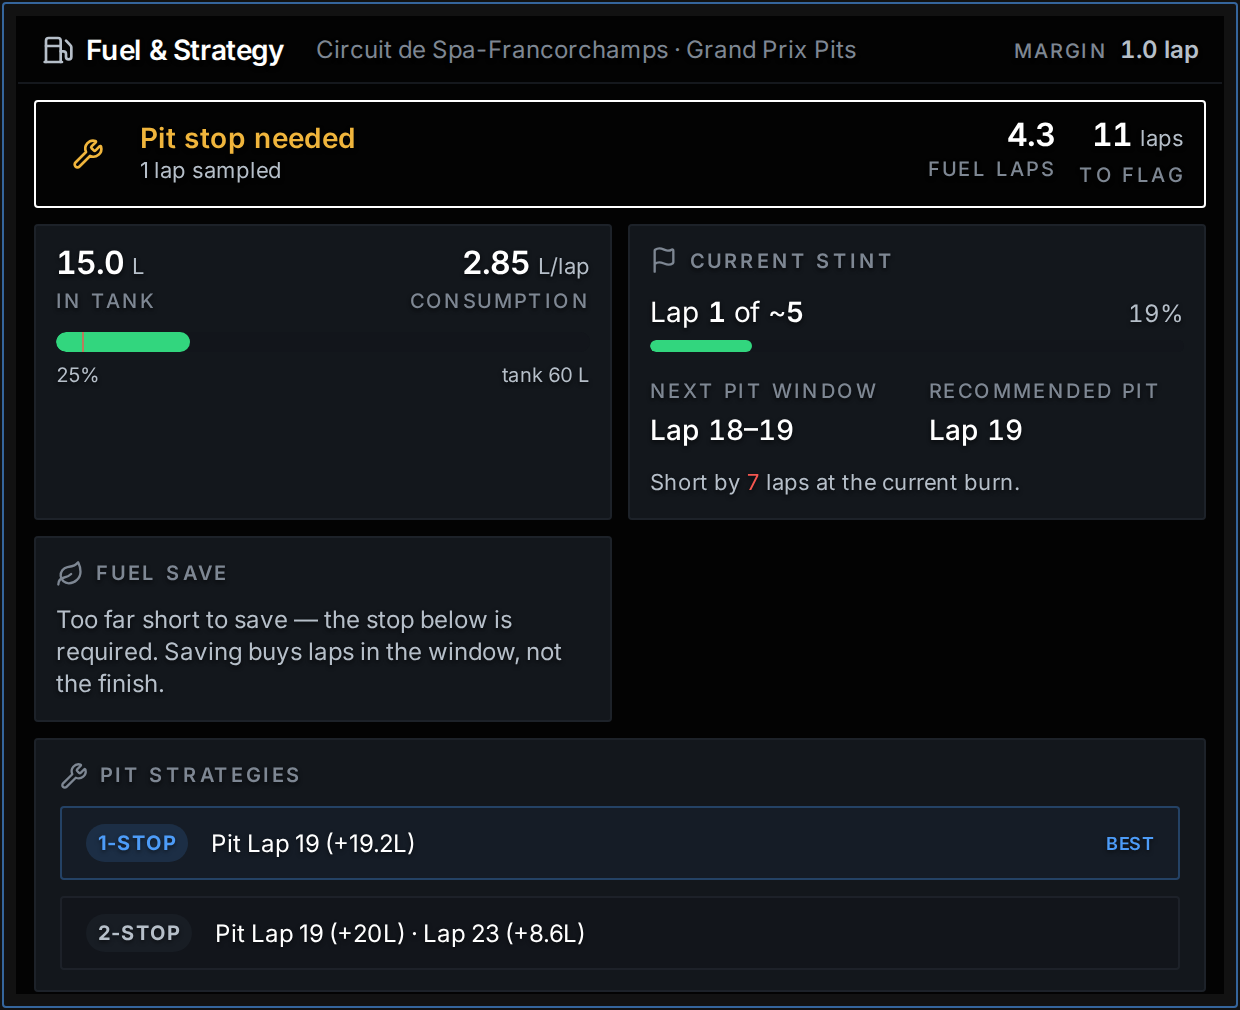
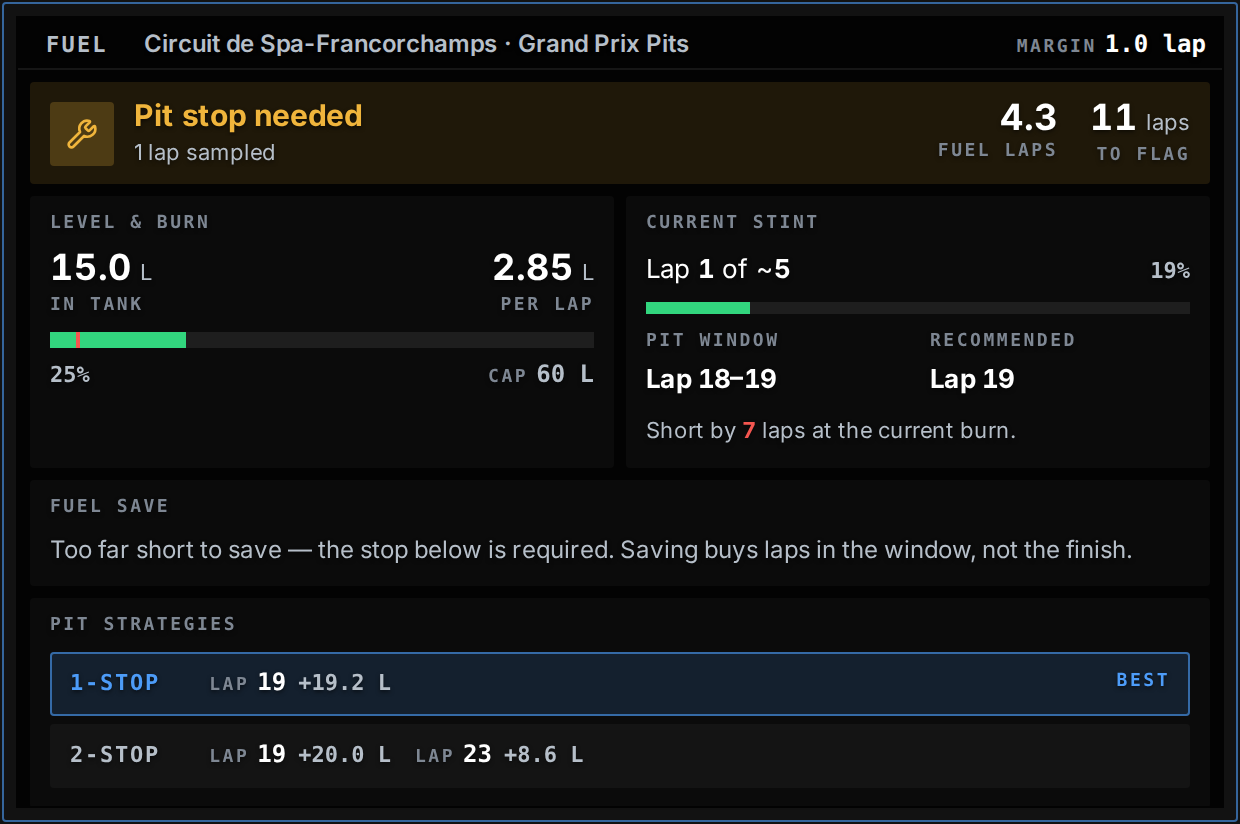
docs(site): re-shoot the product captures for the timing-surface pass
Every capture is re-shot from the live app on the mock feed. Relative and
Fuel frames are re-measured (416 and 412 px) now that their content is
shorter, and the img dimensions and alt text follow.

diff --git a/site/index.html b/site/index.html
@@ -332,9 +332,9 @@
                    incidents, track and air temperature, strength of field and the
                    clock, then a GT3 class band with car count, SoF and fastest lap
                    over six driver rows, and the full GT4 group below it — each row
-                   carrying position change, position, car number, driver, car brand,
-                   licence, iRating, gap, interval, last lap, best lap, tyre and three
-                   sector columns."
+                   carrying position, position change, car number, car brand, flag,
+                   driver, licence, iRating, gap, interval, last lap, best lap, tyre
+                   and three sector columns."
             />
           </figure>
         </section>
@@ -371,9 +371,9 @@
               loading="lazy"
               alt="The standings overlay showing two class groups, GT3 and GT4. Each
                    group has a coloured band with car count, strength of field and
-                   fastest lap, followed by rows carrying position change, position,
-                   car number, driver, car brand, licence, iRating, gap, interval,
-                   last lap, best lap, tyre and three sector columns."
+                   fastest lap, followed by rows carrying position, position change,
+                   car number, car brand, flag, driver, licence, iRating, gap,
+                   interval, last lap, best lap, tyre and three sector columns."
             />
           </figure>
         </section>
@@ -397,12 +397,13 @@
             <img
               src="assets/relative.png"
               width="1120"
-              height="944"
+              height="832"
               loading="lazy"
               alt="The relative overlay: cars ahead and behind the player sorted by
                    on-track time. Rows above the player show positive gaps in white,
-                   rows below show negative gaps in red, with the player's own row
-                   highlighted between a 'you' and a 'behind' divider."
+                   rows below show negative gaps in red, and the player's own row is
+                   outlined and set apart by a gap above and below. Cars on a
+                   different lap carry a red ground and a lap tag."
             />
           </figure>
         </section>
@@ -431,12 +432,12 @@
             <img
               src="assets/fuel.png"
               width="1240"
-              height="1010"
+              height="824"
               loading="lazy"
-              alt="The fuel and strategy overlay, headed 'margin 1.0 lap': a 'Pit
-                   stop needed' banner reading 4.3 fuel laps against 11 laps to the
-                   flag, 15.0 litres in tank, 2.85 litres per lap consumption, a
-                   next pit window of laps 18 to 19, a recommended pit on lap 19, a
+              alt="The fuel and strategy overlay, under a strip naming the track and a
+                   1.0-lap margin: a 'Pit stop needed' block reading 4.3 fuel laps
+                   against 11 laps to the flag, 15.0 litres in tank at 2.85 litres per
+                   lap, a pit window of laps 18 to 19, a recommended pit on lap 19, a
                    note reading 'short by 7 laps at the current burn', and two
                    candidate plans — a one-stop on lap 19 and a two-stop."
             />
